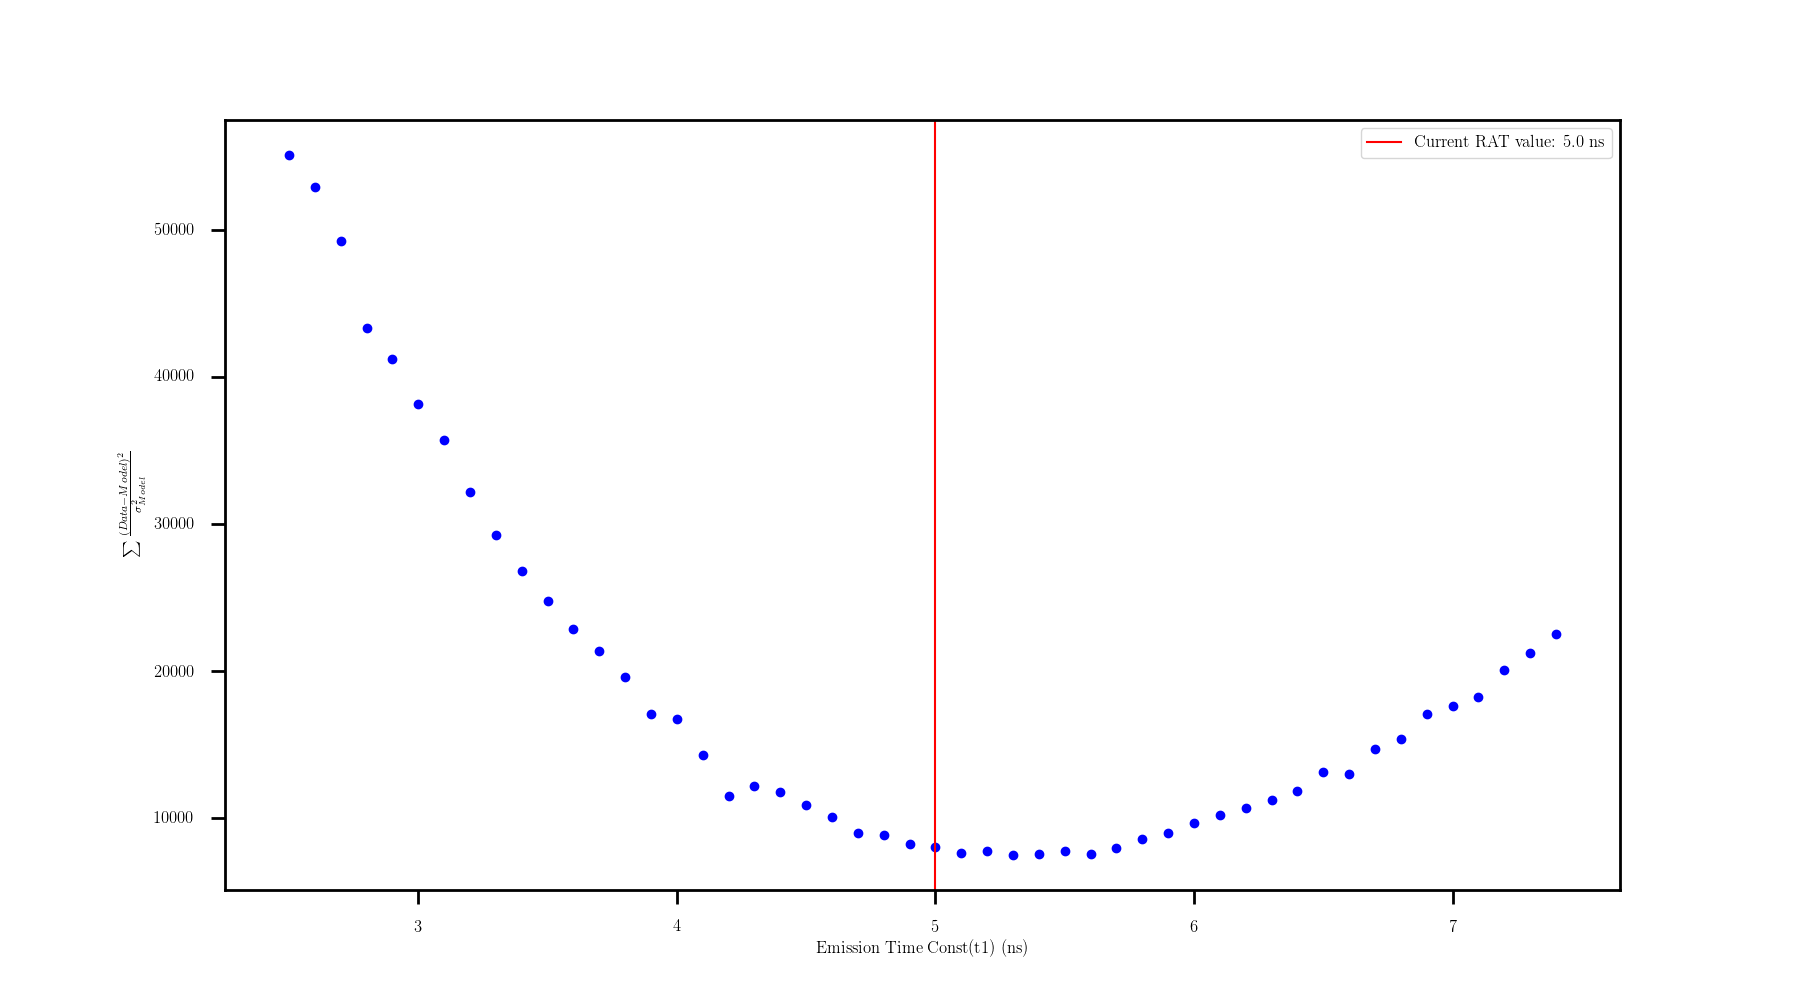
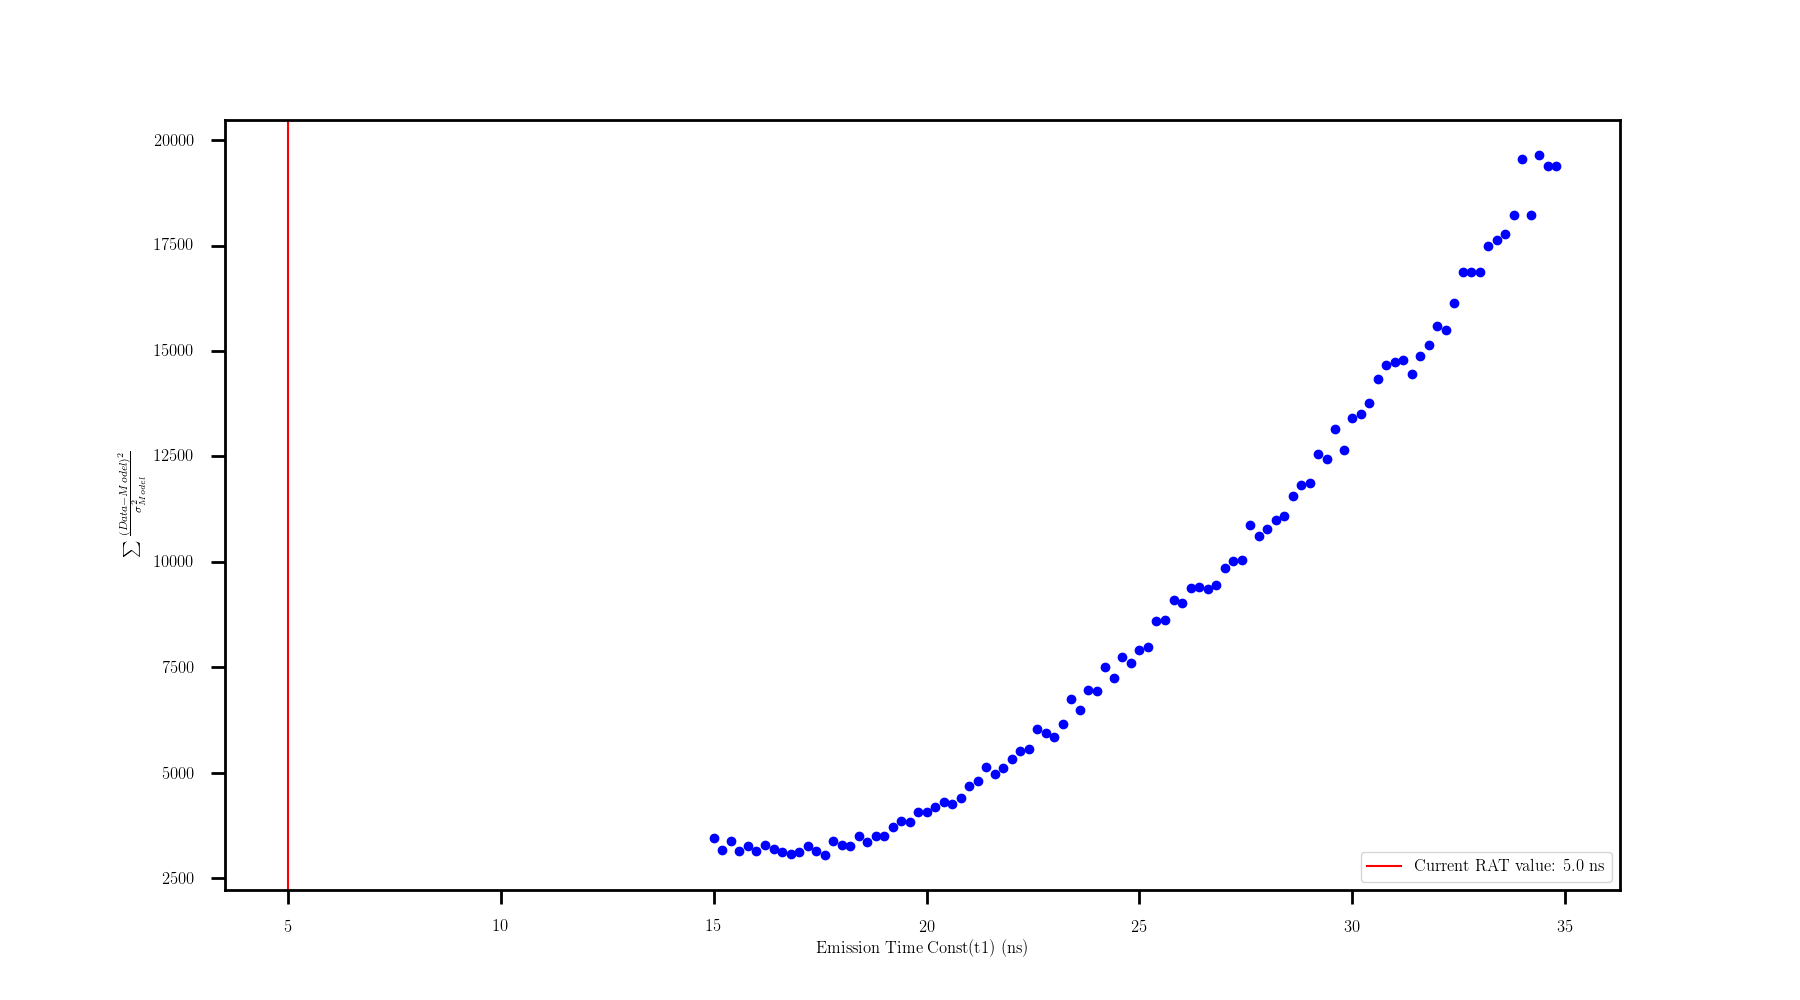
change t1 to t2

diff --git a/scripts/generate_grid_search_macros.py b/scripts/generate_grid_search_macros.py
@@ -1,7 +1,7 @@
 """
 Script generates all the individual macros, sh and submit files for the Bi214 timing tuning.
 """
-
+import time
 import string 
 import os 
 import numpy as np
@@ -47,18 +47,18 @@ def bisMSB_simulation():
 
 	if isotope == "Bi214":
 		# fixed constants from double exponential model
-		t1 = np.arange(1.0,7.5,0.1)#[5.0]
-		t2 = 24.5
+		t1 = 5.3
+		t2 = np.arange(7.0,15.2,0.2)
 		t3 = 399.0
 		tr = 0.85
 		A1 = 0.656
 		A2 = 0.252
 		A3 = 0.092
 		# loop over every combination of variables
-		for iConst1 in t1:
+		for iConst1 in t2:
 			sum_amps             = A1 + A2 + A3
-			t1_rounded           = round(iConst1, 4)
-			t2_rounded           = round(t2, 4)
+			t1_rounded           = round(t1, 4)
+			t2_rounded           = round(iConst1, 4)
 			t3_rounded           = round(t3, 4)
 			A1_rounded           = round(A1 /sum_amps , 4)
 			A2_rounded           = round(A2 /sum_amps, 4)
@@ -66,7 +66,7 @@ def bisMSB_simulation():
 			tr_rounded           = round(tr, 4)
 			BisABSLENGTH_rounded = round(BisABSLENGTH_SCALE, 4)
 
-			macName = f"{isotope}{t1_rounded}"
+			macName = f"{isotope}{t2_rounded}"
 			outTextMac = rawTextMac.substitute(T1 = t1_rounded, T2 = t2_rounded, TR = tr_rounded, T3 = t3_rounded, A1 = A1_rounded, A2 = A2_rounded, A3 = A3_rounded,BisScale = BisABSLENGTH_rounded, OUT = f"{path}/MC/{iteration}/{isotope}/{macName}")
 			outTextSh = rawTextSh.substitute(RUNID= runid ,ITERATION= iteration,NUMEVS = NUM_EVS, MACNAME = macName, PATH=path)
 			outTextSubmit = rawTextSubmit.substitute(SHNAME = macName,ITERATION= iteration, PATH=path)
@@ -84,10 +84,11 @@ def bisMSB_simulation():
 
 			command = f"condor_submit -b {isotope}_{iteration}_bismsb {path}/condor/submit/{iteration}/{macName}.submit"
 			os.system(command)
+			time.sleep(1)
 	if isotope == "Po214":
 		# fixed constants from double exponential model
-		t1 = np.arange(1.0,7.5,0.1)#[4.1]
-		t2 = 21.0
+		t1 = 4.9
+		t2 = np.arange(10.0,30.1,0.2)#
 		t3 = 84.0
 		t4 = 197.0
 		tr = 0.85
@@ -97,10 +98,10 @@ def bisMSB_simulation():
 		A4 = 0.104
 
 		# loop over every combination of variables
-		for iConst1 in t1:
+		for iConst1 in t2:
 			sum_amps = A4 + A1 + A2 + A3
-			t1_rounded           = round(iConst1, 4)
-			t2_rounded           = round(t2, 4)
+			t1_rounded           = round(t1, 4)
+			t2_rounded           = round(iConst1, 4)
 			t3_rounded           = round(t3, 4)
 			t4_rounded           = round(t4, 4)
 			A1_rounded           = round(A1 /sum_amps , 4)
@@ -110,7 +111,7 @@ def bisMSB_simulation():
 			tr_rounded           = round(tr, 4)
 			BisABSLENGTH_rounded = round(BisABSLENGTH_SCALE, 4)
 
-			macName = f"{isotope}{t1_rounded}"
+			macName = f"{isotope}{t2_rounded}"
 			outTextMac = rawTextMac.substitute(T1 = t1_rounded, T2 = t2_rounded, TR = tr_rounded, T3 = t3_rounded, A1 = A1_rounded, A2 = A2_rounded, A3 = A3_rounded,BisScale = BisABSLENGTH_rounded, OUT = f"{path}/MC/{iteration}/{isotope}/{macName}")
 			outTextSh = rawTextSh.substitute(RUNID= runid ,ITERATION= iteration, NUMEVS = NUM_EVS, MACNAME = macName, PATH=path)
 			outTextSubmit = rawTextSubmit.substitute(SHNAME = macName, ITERATION=iteration, PATH=path)
@@ -128,6 +129,7 @@ def bisMSB_simulation():
 
 			command = f"condor_submit -b {isotope}_{iteration}_bismsb {path}/condor/submit/{iteration}/{macName}.submit"
 			os.system(command)
+			time.sleep(1)
 
 def single_parameter_scaling():
 	path      = "/data/snoplus3/hunt-stokes/tune_cleaning"

diff --git a/scripts/tres_plotting.py b/scripts/tres_plotting.py
@@ -19,15 +19,15 @@ datafilename 	= "bismsb_batch4_bi_4000.0.npy" if args.isotope == "Bi214" else "b
 Data_Path       = datapath+datafilename
 
 def tres_hist_plot(histarray,fig,ax,color=None,label=None,density=True):
-	myhist, xbins = np.histogram(histarray,bins=355,range=[-5.,350.])
-	#myhist, xbins = np.histogram(histarray,bins=105,range=[-5.,100.])
+	#myhist, xbins = np.histogram(histarray,bins=355,range=[-5.,350.])
+	myhist, xbins = np.histogram(histarray,bins=105,range=[-5.,100.])
 	SUM = np.sum(myhist)
-	hist, xbins,_ = ax.hist(histarray,bins=355,range=[-5.,350.],fill = False, label =label, color = color,histtype="step", density=density,log=True)
-	#hist, xbins,_ = ax.hist(histarray,bins=105,range=[-5.,100.],fill = False, label =label, color = color,histtype="step", density=density,log=False)
+	#hist, xbins,_ = ax.hist(histarray,bins=355,range=[-5.,350.],fill = False, label =label, color = color,histtype="step", density=density,log=True)
+	hist, xbins,_ = ax.hist(histarray,bins=105,range=[-5.,100.],fill = False, label =label, color = color,histtype="step", density=density,log=False)
 	return hist, SUM
 def tres_hist(histarray,density = True):
-	returnarr,binsx = np.histogram(histarray,bins=355,range=[-5.,350.])
-	#returnarr,binsx = np.histogram(histarray,bins=105,range=[-5.,100.])
+	#returnarr,binsx = np.histogram(histarray,bins=355,range=[-5.,350.])
+	returnarr,binsx = np.histogram(histarray,bins=105,range=[-5.,100.])
 	returnarr_err = returnarr**0.5
 	if density == True: 
 		SUM = np.sum(returnarr)
@@ -59,7 +59,7 @@ def GetFile(filedir): #return all of the file(.root) + originalfilename in that 
 	return file_addresses, name
 
 def plot_varyingt1():
-	t1 			= np.arange(1.0,7.5,0.1)#np.arange(2.5,7.5,0.1)
+	t1 			= np.arange(10.0,30.0,0.2)#np.arange(1.0,7.5,0.1)#np.arange(2.5,7.5,0.1)
 	parameters = np.round(t1,1)
 	try:
 		os.mkdir(f"{outputdir}/{args.iteration}")
@@ -84,8 +84,8 @@ def plot_varyingt1():
 		MC_hist, MC_histerr, MCbinsx,SUM1 = tres_hist(MC)#,fig,ax,'blue',f'MC:{args.parameters}[ns]')
 		Datahist, Datahisterr, binsx, SUM1_1= tres_hist(Data)
 		binsx = (binsx[1:]+binsx[:-1])/2.
-		Plot_1D_error(binsx,MC_hist, fig, ax,None, MC_histerr,'blue',ylogscale = True,label=f'MC:{parameters[iConst1]}[ns]')
-		Plot_1D_error(binsx,Datahist, fig, ax,None, Datahisterr,'0',ylogscale = True,label="Data")
+		Plot_1D_error(binsx,MC_hist, fig, ax,None, MC_histerr,'blue',ylogscale = False,label=f'MC:{parameters[iConst1]}[ns]')
+		Plot_1D_error(binsx,Datahist, fig, ax,None, Datahisterr,'0',ylogscale = False,label="Data")
 		# calculate the diff between data/MC and plot it
 		diff, sigma_diff= ratiodiff(MC_hist,SUM1,Datahist,SUM1_1)
 		Plot_1D_error(binsx,diff, fig, ax2,None, sigma_diff,'0',ylogscale = False)
@@ -97,8 +97,8 @@ def plot_varyingt1():
 		ax2.set_xlabel("tres")
 		ax2.set_ylabel("MC/Data")
 		ax2.set_ylim(0.6,1.4)
-		#plt.savefig(f"{outputdir}/{args.iteration}/{args.isotope}/{parameters[iConst1]}_tres.png")
-		plt.savefig(f"{outputdir}/{args.iteration}/{args.isotope}/log{parameters[iConst1]}_tres.png")
+		plt.savefig(f"{outputdir}/{args.iteration}/{args.isotope}/{parameters[iConst1]}_tres.png")
+		#plt.savefig(f"{outputdir}/{args.iteration}/{args.isotope}/log{parameters[iConst1]}_tres.png")
 		#fig.show()
 		#input()
 	

diff --git a/scripts/chisquarecalculation.py b/scripts/chisquarecalculation.py
@@ -6,7 +6,7 @@ import os
 # combined all the simulation results of same tuning time, to calculating chisquare with data
 
 # parameters that need to be changed
-t1 = np.arange(2.5,7.6,0.1)#np.arange(2.0,7.1,0.1)
+t1 = np.arange(10.0,30.0,0.2)#np.arange(15.0,35.0,0.2)
 
 
 
@@ -40,22 +40,18 @@ def chisquarecalc():
 				MC_arr    = np.load(f"{path}/residuals/{args.iteration}/{isotope}/{macName}.npy")
 				print("length of MC:", len(MC_arr))
 			except:
-				print(f"{path}/residuals/{args.iteration}/{isotope}/{macName}.npy")
+				print(f"{path}/residuals/{args.iteration}/{isotope}/{macName}.npy not exists")
 			Norm_data_histcounts, Norm_data_histbins = np.histogram(data_arr, bins = binning,density = True)
 			Norm_MC_histcounts  , Norm_MC_histbins   = np.histogram(MC_arr, bins = binning, density = True)
 			MC_histcounts  , 		   MC_histbins   = np.histogram(MC_arr, bins = binning, density = False)
 			Data_histcounts  , 		 Data_histbins   = np.histogram(MC_arr, bins = binning, density = False) 
 			scale = np.sum(MC_histcounts); scale_data = np.sum(Data_histcounts)
 			Norm_MC_histcounts_err =  np.sqrt(MC_histcounts)/scale; Norm_Data_histcounts_err =  np.sqrt(Data_histcounts)/scale 
+			#print(( MC_histcounts))
+			
 			MCindex = np.where(Norm_MC_histcounts<0.00001)[0][0]	
 			#print(( data_histcounts[:MCindex-1] - MC_histcounts[MCindex-1] )**2/MC_histcounts[MCindex-1])
 			#diffs = np.sum(( Norm_data_histcounts[:MCindex-1] - Norm_MC_histcounts[:MCindex-1] )**2/ Norm_MC_histcounts[:MCindex-1])
-			#print(( Norm_data_histcounts[:100]))
-			a = np.sqrt(( Norm_data_histcounts[:MCindex-1] - Norm_MC_histcounts[:MCindex-1] )**2)
-			b = np.sqrt((Norm_MC_histcounts_err[:MCindex-1]**2 + Norm_Data_histcounts_err[:MCindex-1]**2  ))
-			print(np.sum(Norm_data_histcounts[:MCindex-1]))
-			print(np.sum(Norm_MC_histcounts[:MCindex-1]))
-			print(np.sum(a/b))
 			diffs = np.sum(( Norm_data_histcounts[:MCindex-1] - Norm_MC_histcounts[:MCindex-1] )**2/((Norm_MC_histcounts_err[:MCindex-1]**2 + Norm_Data_histcounts_err[:MCindex-1]**2)  ))
 			print("chisquare",diffs)
 

diff --git a/scripts/submit_makehist.py b/scripts/submit_makehist.py
@@ -5,7 +5,7 @@ from ROOT import RAT
 import argparse
 import os 
 import string 
-
+import time
 
 
 def GetFile(filedir): #return all of the file(.root) + originalfilename in that dir
@@ -19,7 +19,7 @@ def GetFile(filedir): #return all of the file(.root) + originalfilename in that 
 	return file_addresses, name
 def t1scaling():
 	# parameters that need to be changed
-	t1 = np.arange(1.0,7.6,0.1)#np.arange(2.0,7.1,0.1)np.arange(2.5,5.1,0.1)
+	t1 = np.arange(15.0,35.0,0.2)#np.arange(2.0,7.1,0.1)np.arange(2.5,5.1,0.1)
 	t1 = np.round(t1,1)
 	path          = "/data/snoplus2/weiiiii/BiPo214_tune_cleaning"
 	histcondorpath  = "/data/snoplus2/weiiiii/BiPo214_tune_cleaning/makehistcondor"
@@ -77,6 +77,7 @@ def t1scaling():
 		print(f"condor_submit -b {isotope}_{iteration}_makehist {histcondorpath}/submit/{iteration}/{macName}.submit")
 		command = f"condor_submit -b {isotope}_{iteration}_makehist {histcondorpath}/submit/{iteration}/{macName}.submit"
 		os.system(command)
+		time.sleep(1)
 def genermc():
 	path          = "/data/snoplus3/weiii/tune_cleaning"
 	mcpath1          = "/data/snoplus3/SNOplusData/production/Prod_RAT-7.0.15_AmBe_Feb2023/"

diff --git a/scripts/chisquareplotting.py b/scripts/chisquareplotting.py
@@ -5,7 +5,7 @@ matplotlib.use("Agg")
 import matplotlib.font_manager as fm
 import argparse
 
-t1 = np.arange(2.5,7.6,0.1)#np.arange(2.0,7.1,0.1)
+t1 = np.arange(10.0,30.0,0.2)#np.arange(15.0,35.0,0.2)
 t1 = np.round(t1,1)
 
 def setup_plot_style():
@@ -56,9 +56,10 @@ if __name__ == "__main__":
 	min_index = np.where(np.array(dataset) == np.min(np.array(dataset)))[0][0]
 	print(f"chi2 minimum is at t = {par[min_index]}, with chi2 = {dataset[min_index]}")
 	ax.scatter(np.array(par),np.array(dataset),color="b",marker="o")
-	t1_now = 5.0 if args.isotope == "Bi214" else 4.1
+	t1_now = 5.0 if args.isotope == "Bi214" else 21.0 #4.1
 	ax.axvline(x=t1_now, ymin=0, ymax=1,color="r",label=f"Current RAT value: {t1_now} ns")
-	ax.set_xlabel("Emission Time Const(t1) (ns)")
+	#ax.set_xlabel("Emission Time Const(t1) (ns)")
+	ax.set_xlabel("Emission Time Const(t2) (ns)")
 	#ax.set_ylim(7e-05,1e-04)
 	ax.set_ylabel(r"$\sum\frac{(Data-Model)^{2}}{\sigma_{Model}^2}$")
 	ax.legend()
